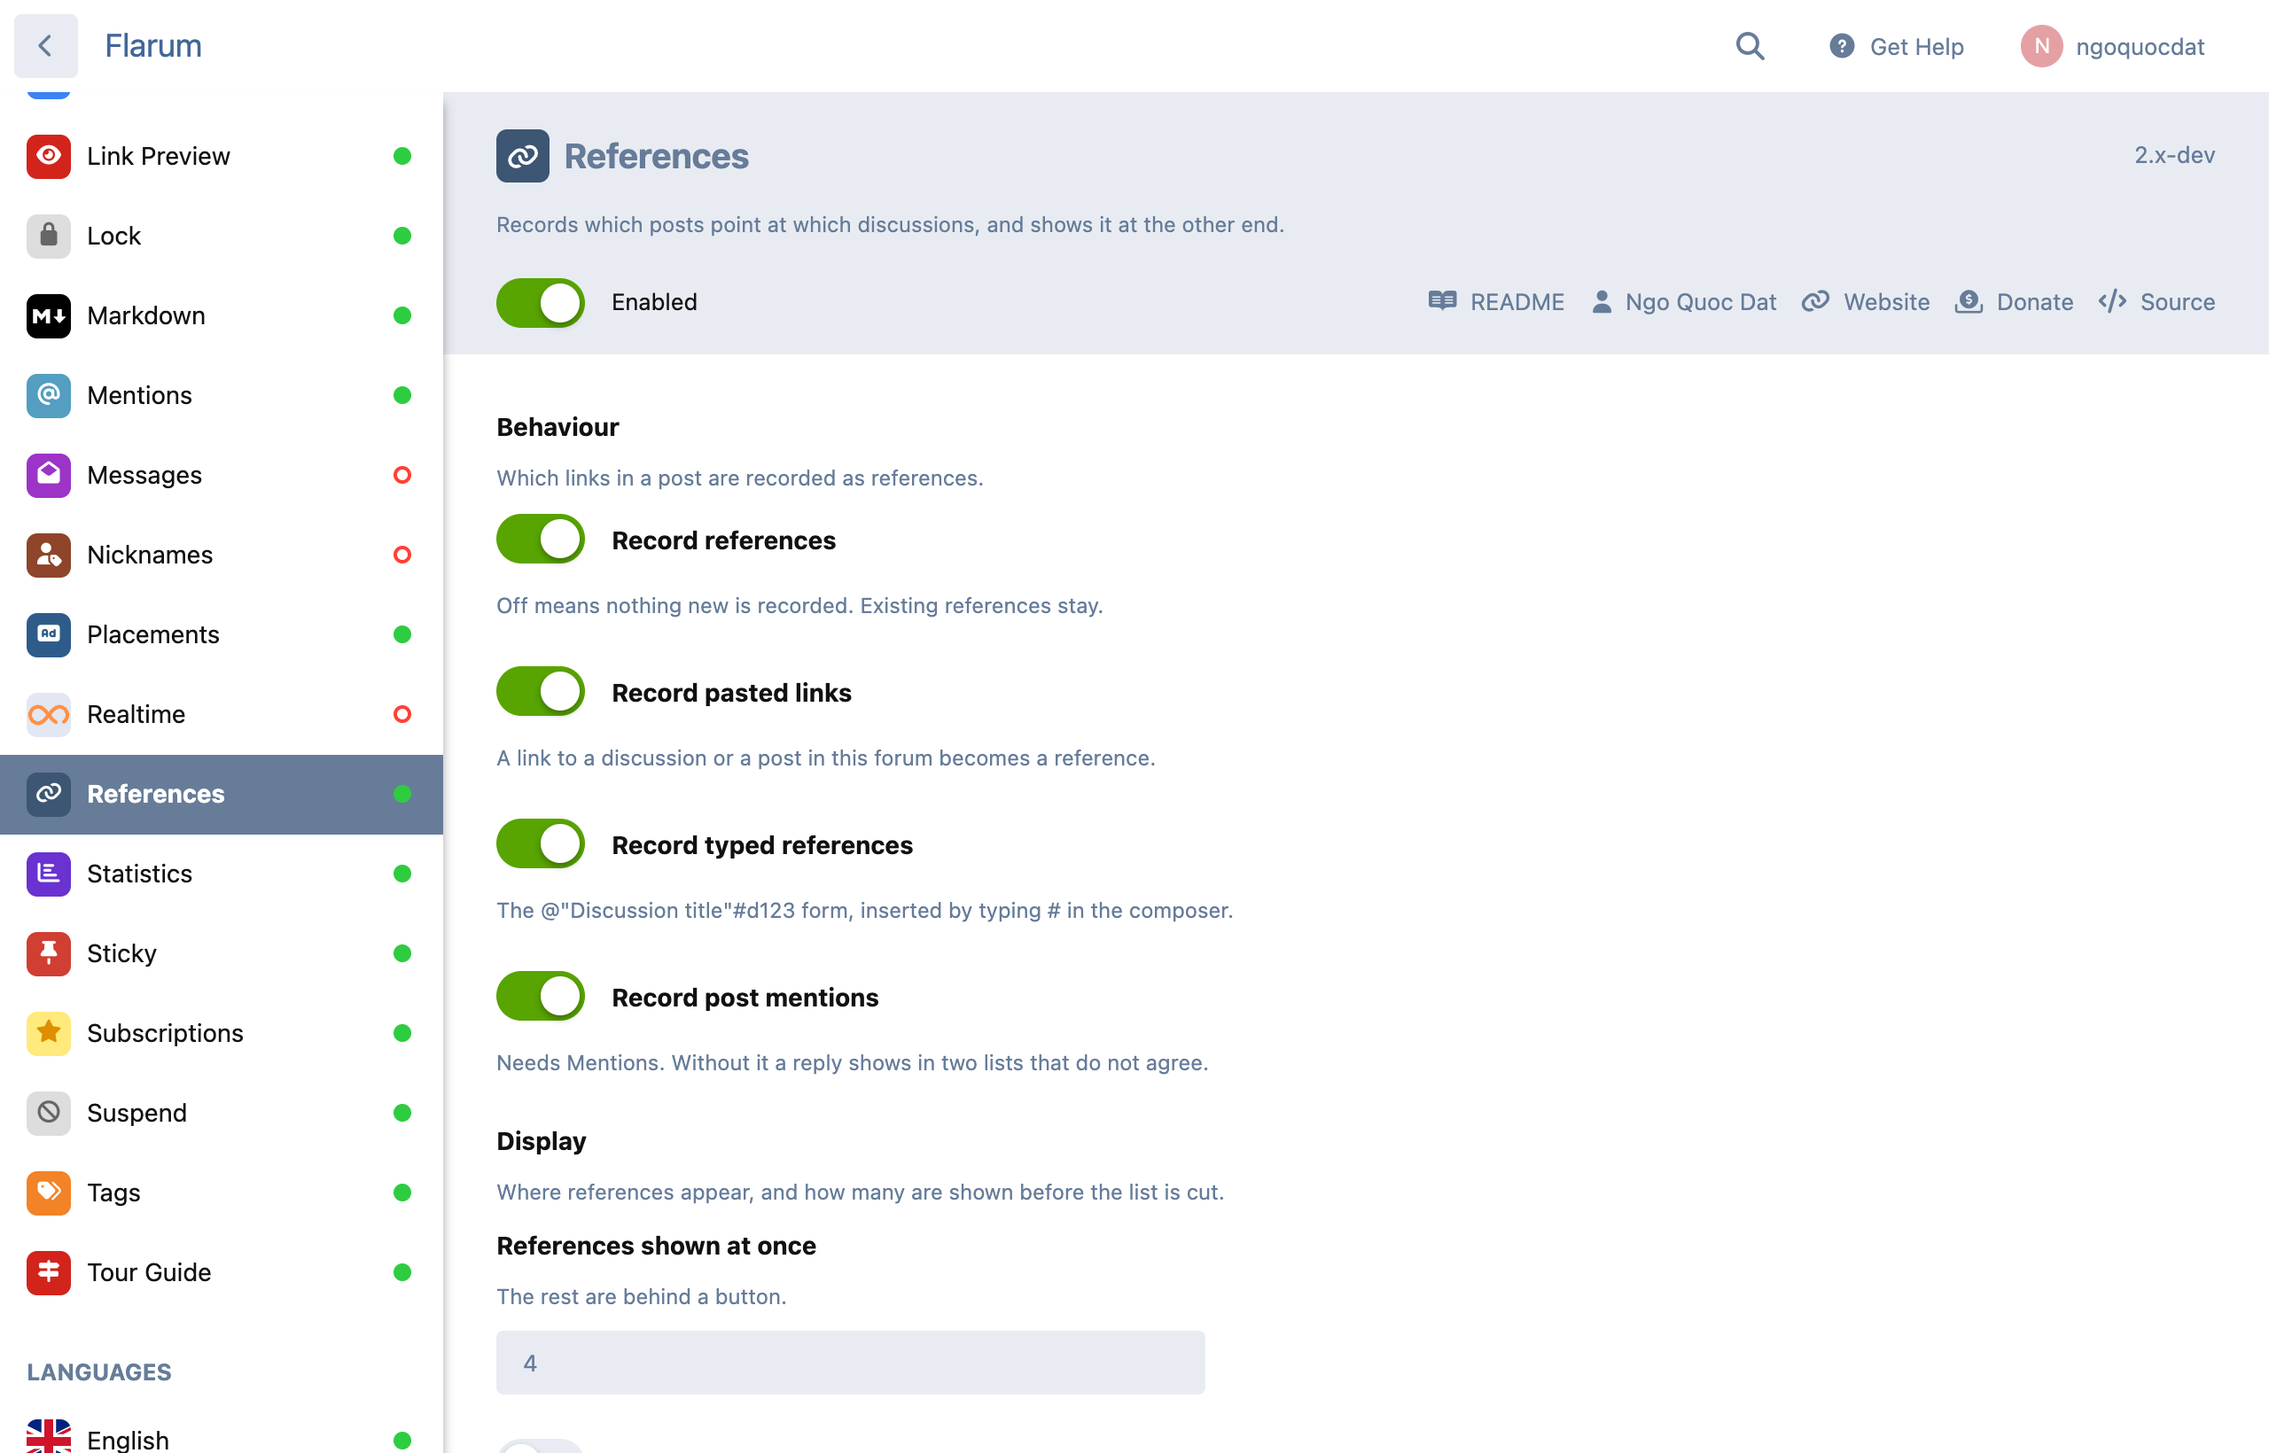
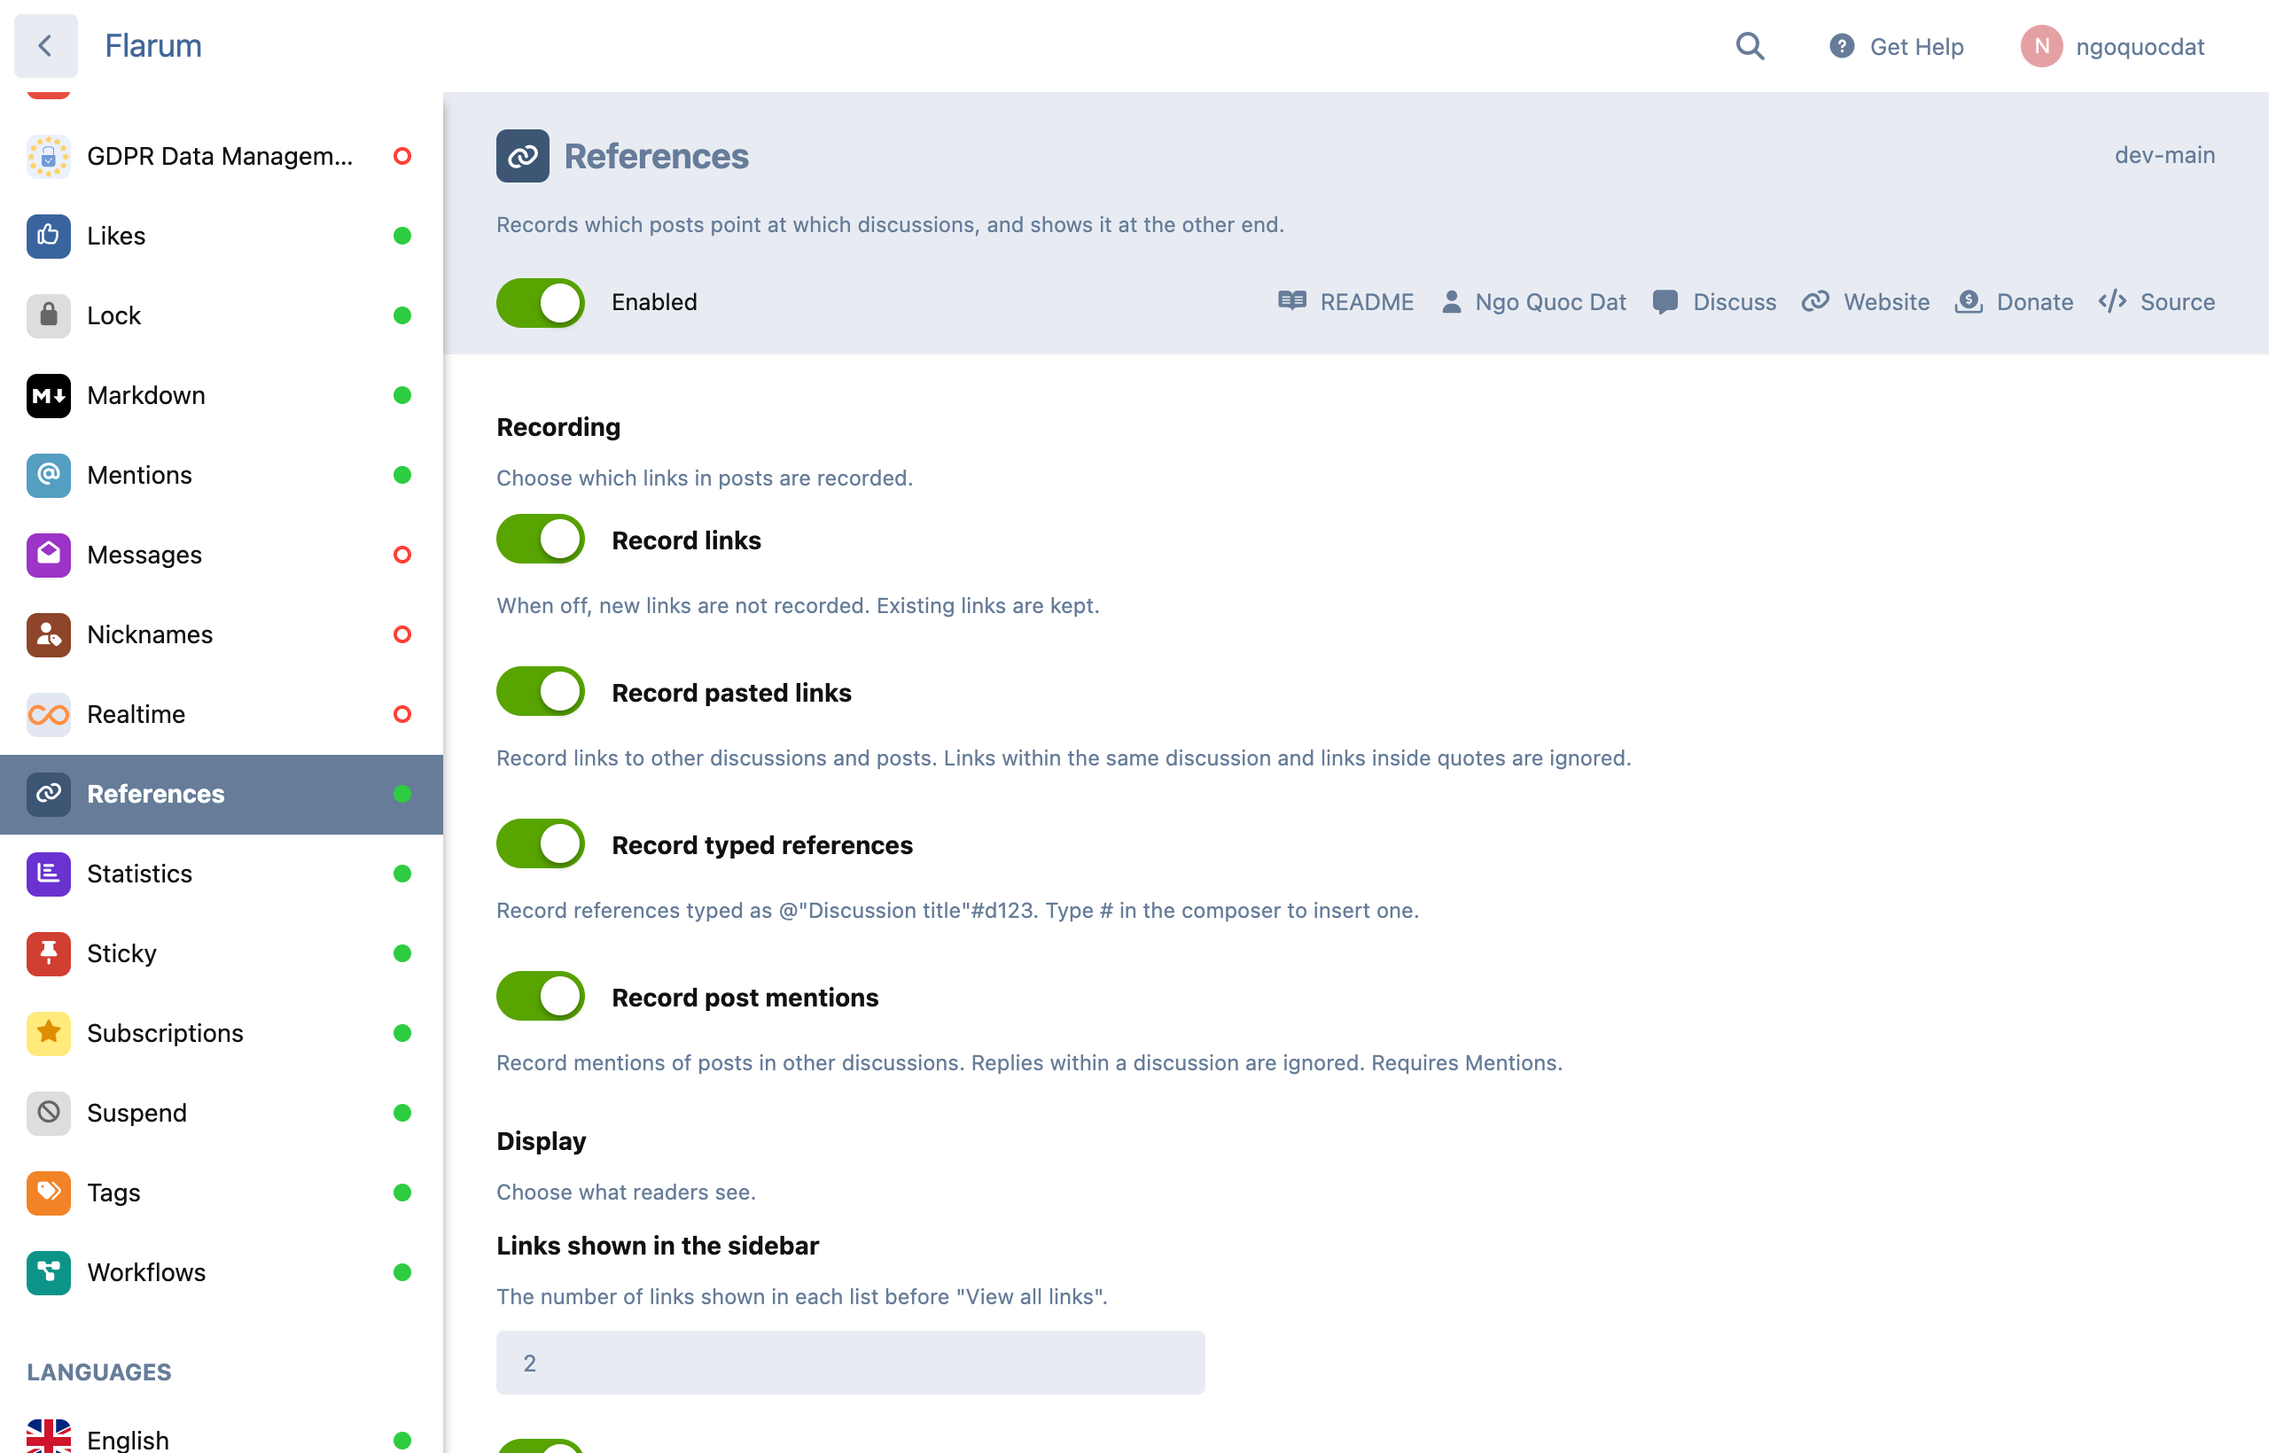
Update README, changelog and screenshots

diff --git a/README.md b/README.md
@@ -2,102 +2,116 @@
 
 [![License](https://img.shields.io/badge/license-MIT-blue.svg)](LICENSE.md) [![Latest Stable Version](https://img.shields.io/packagist/v/datlechin/flarum-references.svg)](https://packagist.org/packages/datlechin/flarum-references) [![Total Downloads](https://img.shields.io/packagist/dt/datlechin/flarum-references.svg)](https://packagist.org/packages/datlechin/flarum-references) [![Sponsor](https://img.shields.io/github/sponsors/datlechin?logo=githubsponsors&label=Sponsor)](https://github.com/sponsors/datlechin)
 
-Someone links a discussion from another post. Flarum turns it into a `#12` label and records nothing, so the discussion being linked never finds out. This keeps the connection and shows it at both ends.
+A [Flarum](https://flarum.org) extension that tracks links between discussions. When a post links to another discussion, the linked discussion shows where it was linked from.
 
-![A discussion listing what references it and what it references](screenshots/discussion.png)
+![Discussion page](screenshots/discussion.png)
 
-## Install
+## Features
+
+- Records links to other discussions and to posts in other discussions.
+- Adds a `#` picker to the composer that inserts a discussion reference: `@"Discussion title"#d12`.
+- Shows "Linked from" and "Links to" lists in the discussion sidebar. On phones this is one "N links" button.
+- Shows "Linked from ..." under a post that another discussion links to.
+- An "All links" dialog with details and a map of connected discussions.
+- Related discussions, based on which discussions are linked together.
+- A "Most linked" sort option.
+- Search filters: `references:12`, `referenced-by:12`, `has:references`.
+- Moderators can add links by hand, set a type (duplicate of, see also, replaces, answers), add a note, and remove links they added.
+- Notifications for authors and followers.
+- Admin reports: broken links and analytics with CSV export.
+
+![All links dialog](screenshots/links.png)
+
+## What counts as a link
+
+A link from one discussion to a **different** discussion. These are not recorded:
+
+- Replies and links within the same discussion. Mentions already shows replies.
+- Links inside quotes. They belong to the quoted post.
+
+Linking the same target more than once in a post counts once.
+
+## Moderation
+
+Open a discussion's moderation menu and choose **Manage links**. From there you can:
+
+- **Add link**: link this discussion to another one without editing any post.
+- **Edit**: set the link type and a note. An edited link is kept when its post is edited.
+- **Remove**: delete a link that was added by hand. Links written in posts are removed by editing the post.
+
+## Installation
+
+Requires Flarum 2.0 and PHP 8.2.
 
 ```sh
 composer require datlechin/flarum-references
 php flarum migrate
+php flarum cache:clear
 php flarum references:backfill
 ```
 
-Needs Flarum 2.0 and PHP 8.2.
+The backfill command records references in posts written before the extension was installed. Run it once.
 
-Run the backfill once. Posts written before you installed this are only picked up that way, because Flarum releases the events it listens to through the API layer alone.
+## Updating
 
-## What gets recorded
-
-- A link to a discussion or to a post in this forum.
-- A typed reference. Press `#` in the composer, pick a discussion, and it inserts `@"Discussion title"#d12`. Edit the post later and you see it back with the title as it reads today.
-- A post mention, when Mentions is installed.
-
-Linking the same target twice in one post is one reference, not two.
-
-## What you see
-
-A discussion lists what points at it and what it points at. A post that was linked says so under its text, in the same place Mentions puts its replies, merged into one list instead of two that disagree.
-
-Related discussions come from which discussions get cited together, not from tags or titles.
-
-The graph shows how the discussions around this one connect.
-
-![The reference graph](screenshots/graph.png)
-
-The discussion list can be sorted by how often each one is cited.
-
-![Most referenced in the sort menu](screenshots/sort.png)
-
-Search with `references:12`, `referenced-by:12` and `has:references`.
-
-## For moderators
-
-A reference can be given a type: duplicate of, see also, supersedes, answers. Typing one protects it, so it survives an edit to the post that produced it.
-
-You can also add a reference by hand between two discussions, without editing anybody's post.
-
-When a target is deleted the reference is kept and marked broken, so the report has something to show. The admin page has counts by day, by origin and by relation, with CSV export.
+```sh
+composer update datlechin/flarum-references
+php flarum migrate
+php flarum cache:clear
+```
 
 ## Settings
 
-Admin, then Extensions, then References.
+Go to **Admin → Extensions → References**.
 
-![The settings page](screenshots/admin.png)
+![Settings page](screenshots/admin.png)
 
-| Setting | Default | What it does |
+| Setting | Default | Description |
 | --- | --- | --- |
-| Record references | on | Master switch. Off stops recording, existing references stay. |
-| Record pasted links | on | A link to a discussion or a post here becomes a reference. |
-| Record typed references | on | The `@"Title"#d12` form. |
-| Record post mentions | on | Needs Mentions. |
-| References shown at once | 4 | The rest go behind a button. |
-| Announce references in the discussion | off | Adds a line saying where it was linked from. |
-| Show related discussions | on | With how many to show, and a ceiling on how many discussions are read to find them. |
-| Cache duration | 300s | For the related list and the graph. 0 turns caching off. |
-| Graph depth | 2 | How many steps out the graph reaches, and how many links per step. |
-| Also notify followers | on | Needs Subscriptions. |
-| Keep broken references | 365 days | 0 keeps them forever. |
+| Record links | On | Turns recording on or off. Existing links are kept. |
+| Record pasted links | On | Record links to other discussions and posts. |
+| Record typed references | On | Record `@"Title"#d12` references. |
+| Record post mentions | On | Record mentions of posts in other discussions. Requires Mentions. |
+| Links shown in the sidebar | 4 | How many links each sidebar list shows. |
+| Announce new links in the discussion | Off | Adds an event post to the linked discussion. |
+| Show related discussions | On | Shows related discussions in the sidebar. |
+| Cache duration | 300 | Seconds to cache related discussions and the map. `0` disables caching. |
+| Graph depth | 2 | How many steps the map follows. |
+| Notify followers | On | Notify users following the linked discussion. Requires Subscriptions. |
+| Keep broken references | 365 | Days to keep links to deleted content. `0` keeps them forever. |
 
 ## Permissions
 
-Three, so reading the reports does not carry the right to change anything.
-
-| Permission | Allows |
-| --- | --- |
-| Create and edit references | Adding a reference by hand, and typing one. |
-| See broken references | The broken report. |
-| See reference analytics | The counts and the CSV export. |
+| Permission | Default | Allows |
+| --- | --- | --- |
+| Create and edit references | Moderators | Adding, editing and removing links. |
+| See broken references | Moderators | The broken references report. |
+| See reference analytics | Admins | The analytics report and CSV export. |
 
 ## Notifications
 
-The author of what was referenced hears about it, and followers of that discussion when Subscriptions is on. Alert by default, email opt-in, both in the usual notification settings.
+Users can turn each type on or off in their notification settings.
 
-A post mention that Mentions already announced is not announced twice.
+- Someone links to a discussion you started.
+- Someone links to your post.
+- Someone links to a discussion you follow (requires Subscriptions).
+
+Post mentions are announced by Mentions, so the post author is not notified twice.
 
 ## Commands
 
-| Command | What it does |
+| Command | Description |
 | --- | --- |
-| `references:backfill` | Records references for posts written before install. Resume with `--from-id`. |
-| `references:reconcile` | Recomputes the ranking counter. Runs daily. |
-| `references:build-daily-rollup` | Aggregates for the analytics page. Runs daily. |
-| `references:purge-broken` | Drops broken references past the retention window. Runs daily. |
+| `references:backfill` | Records references in existing posts. Use `--from-id` to resume. |
+| `references:reconcile` | Recalculates the reference counts. Runs daily. |
+| `references:build-daily-rollup` | Builds the analytics data. Runs daily. |
+| `references:purge-broken` | Deletes broken references older than the retention period. Runs daily. |
 
-## For extension authors
+Daily commands run through Flarum's scheduler (`php flarum schedule:run`).
 
-A reference can point at something this extension has never heard of:
+## For developers
+
+Register a new reference target, such as a wiki page:
 
 ```php
 (new Extend\Conditional())
@@ -107,10 +121,11 @@ A reference can point at something this extension has never heard of:
     ]),
 ```
 
-One `ReferenceTarget` covers URL extraction, the manual picker, the polymorphic `target` relationship, the morph map and the moderation UI. Read the interface first. A `query()` that forgets `whereVisibleTo` leaks the existence of things the reader cannot open, because counts run through a path that skips the resource's own scope.
+`WikiPageTarget` implements `Datlechin\References\Contract\ReferenceTarget`. Its `query()` method must apply `whereVisibleTo($actor)`, otherwise reference counts can include items the user cannot see.
 
 ## Links
 
 - [Discuss](https://discuss.flarum.org/d/39830-references)
 - [Packagist](https://packagist.org/packages/datlechin/flarum-references)
+- [GitHub](https://github.com/datlechin/flarum-references)
 - [Issues](https://github.com/datlechin/flarum-references/issues)

diff --git a/CHANGELOG.md b/CHANGELOG.md
@@ -1,40 +1,45 @@
 # Changelog
 
+## Unreleased
+
+Run `php flarum migrate` after updating. The migration removes references recorded within a single discussion and recalculates the reference counts.
+
+### Fixed
+
+- Replies within a discussion were recorded as references. Links within the same discussion are no longer recorded.
+- The post footer hid the Mentions "replied to this" list.
+- Links inside quotes were recorded as references.
+- A discussion that linked another several times was counted several times. Counts now use distinct discussions.
+- The sidebar count did not match the list, and the full list showed duplicate titles.
+- Followers received the author's notification ("referenced your post").
+- Notification types were missing from the notification settings.
+- A post that both mentioned and linked a post sent two notifications.
+- Event posts from different users were merged under the first user.
+- Hidden and unapproved posts affected counts, the graph and related discussions.
+- The graph could show discussions that are only connected through a discussion the user cannot see.
+- `references:` and `referenced-by:` did not match links to posts.
+- Links to a missing post number, such as `/d/12/99`, were not recorded. They now reference the discussion.
+- A discussion could reference itself through a manual reference.
+- Related discussions ignored the cache duration setting.
+- Analytics showed "Nothing recorded yet" before the first daily rollup.
+
+### Added
+
+- "Manage links" in the discussion moderation menu: add, edit and remove links in one place.
+- The add link form searches for discussions instead of asking for an ID.
+- Event posts link to the discussion the reference came from.
+- A separate notification type for followers.
+- `filter[incoming]` and `filter[outgoing]` on `/api/post-references`.
+
+### Changed
+
+- New discussion sidebar: short "Linked from" and "Links to" lists, titles only, and one "N links" button on phones.
+- "View all links" opens one dialog with tabs for both directions and the map. The separate graph button is gone.
+- Reader-facing text says "linked" instead of "referenced".
+- Admin settings are grouped into Recording, Display, Notifications and Advanced.
+- Discussion reference counts and lists are only included on the discussion page, not in discussion lists.
+- `references_count` counts distinct discussions, excluding hidden and unapproved content.
+
 ## 1.0.0
 
-First release. Requires Flarum 2.0 and PHP 8.2.
-
-### Recording
-
-- A link to a discussion or a post in this forum is recorded as a reference. Core already labels such a link `#12` at render, but stores nothing, so the other end never learns about it.
-- A post mention is recorded too, when Mentions is installed, so a post shows one backlink list rather than two that disagree.
-- `@"Discussion title"#d12`, inserted by pressing `#` in the composer. It sits in the slot every mention pattern already reserves, so it cannot collide with a tag or a mention whatever order extensions load in.
-- The same target linked twice in one post is one reference.
-- Editing the link out of a post removes the reference, unless a moderator has classified or annotated it.
-- `references:backfill` for posts written before install, since Flarum releases these events through the API layer alone.
-
-### Showing
-
-- A grouped list of references at the discussion they point at, covering the discussion itself and every post in it.
-- A list under a post, replacing the one Mentions adds so the two do not sit side by side saying different things.
-- Related discussions from co-citation: which discussions keep getting cited alongside this one.
-- A most referenced sort on the discussion list, and a reference graph.
-- `references:12`, `referenced-by:12` and `has:references` in search.
-- Optional event post in the referenced discussion, off by default, merging consecutive ones.
-
-### Moderation
-
-- Typed relations: duplicate of, see also, supersedes, answers.
-- References added by hand between two discussions, without editing anybody's post.
-- A reference whose target is deleted is kept and marked, and listed in a broken link report.
-- Counts by day, by origin and by relation, with CSV export.
-- Three permissions, so reading the report does not carry write access.
-
-### Notifications
-
-- Alert and email to the author of what was referenced, plus followers of that discussion when Subscriptions is installed.
-- A post mention Mentions already announced is not announced twice.
-
-### For extension authors
-
-- `ReferenceTargets` extender for new kinds of target. One registration reaches URL extraction, the API's polymorphic `target` relationship, the morph map and the moderation UI.
+Initial release.
